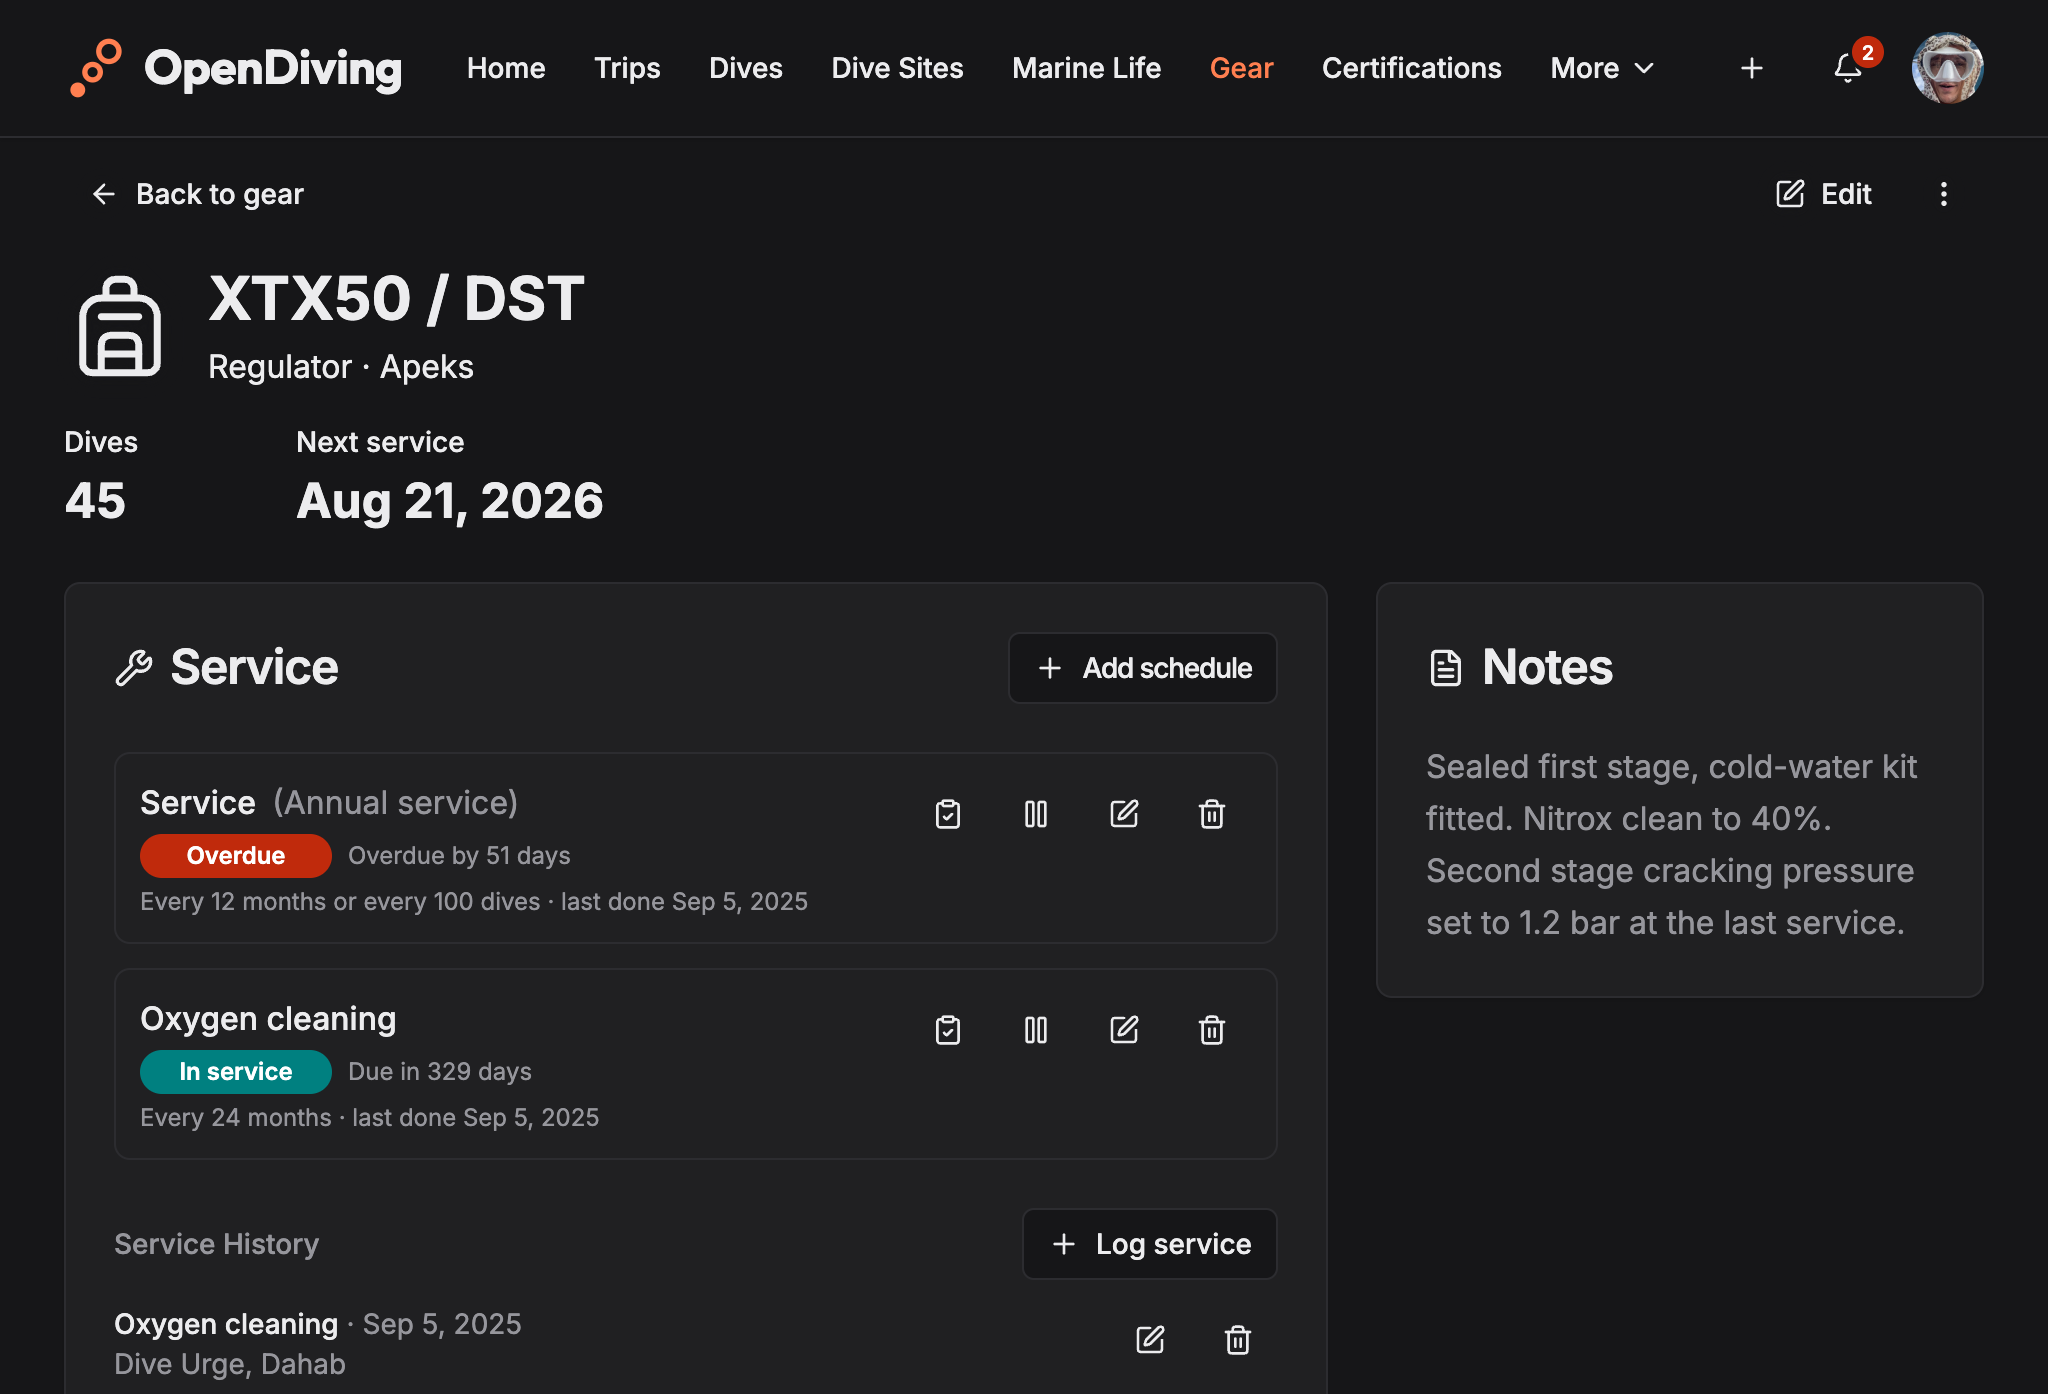
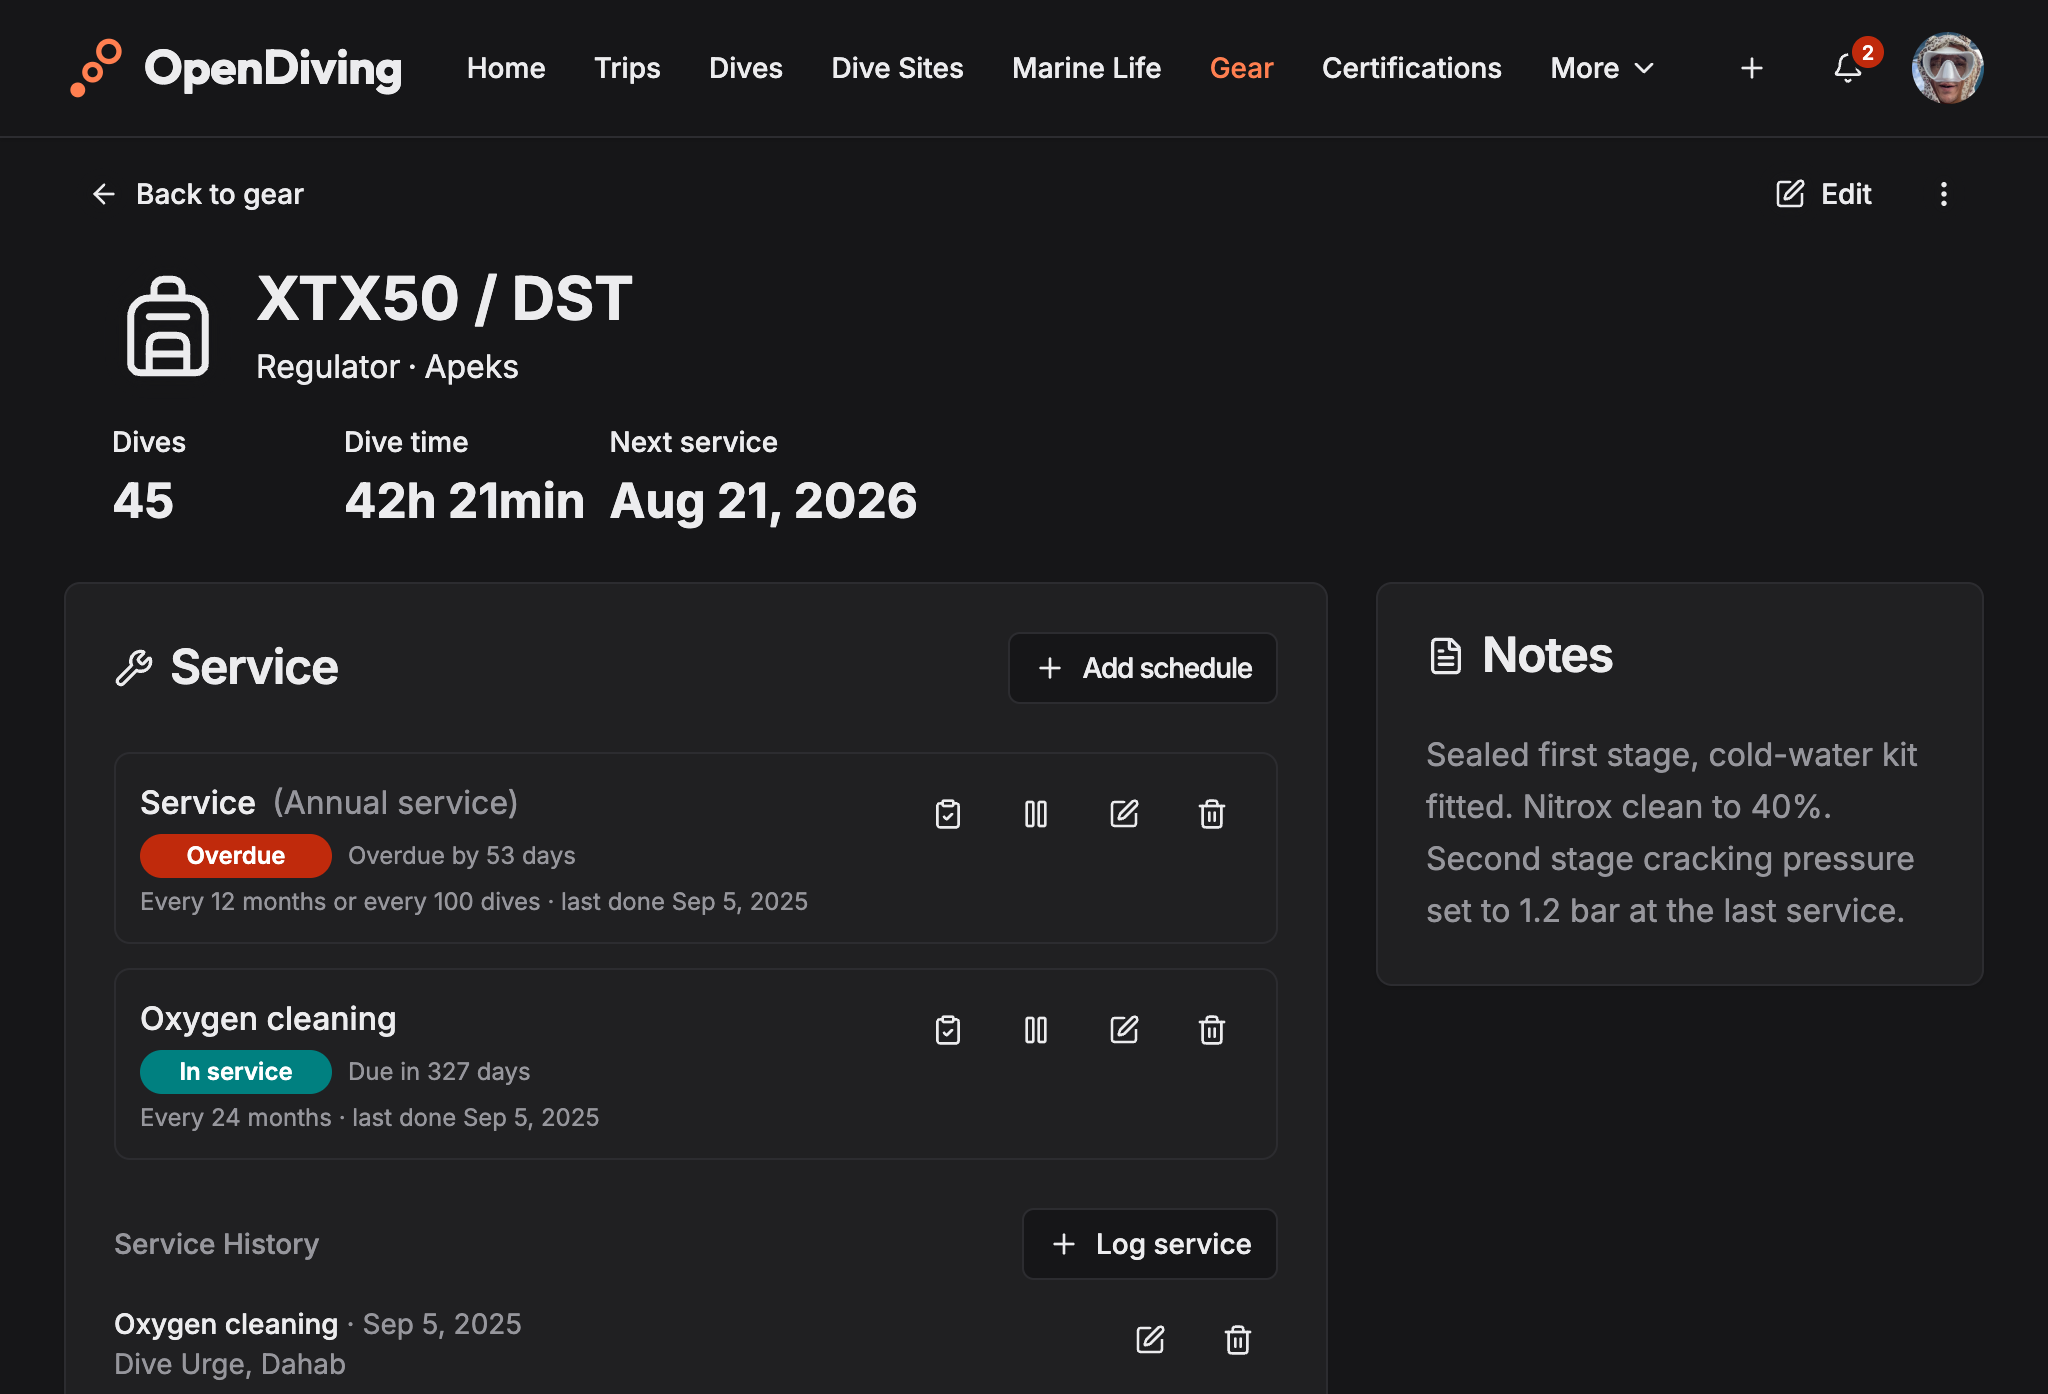
docs: cylinders carry their facts, tanks link them, and service rules run on hours of diving

diff --git a/README.md b/README.md
@@ -98,8 +98,10 @@ what you need, what the six values are, and what each container does.
   there — how many, the last and the deepest, the species you saw and your average rating — beside
   every dive logged at it, and a dive logged there starts from its water, altitude and entry. The
   list sorts by name, by dives or by the last dive, and filters by a tag.
-- **Gear tracking** — equipment with per-item dive counts, groupable into sets you attach to a dive
-  in one click, plus service schedules with due-soon reminders on the dashboard and by email.
+- **Gear tracking** — equipment with per-item dive counts and dive time, groupable into sets you
+  attach to a dive in one click; a cylinder records its volume, working pressure and material once,
+  and a dive's tank links it. Plus service schedules by months, dives or hours of diving, with
+  due-soon reminders on the dashboard and by email.
 - **Certifications** — photos of your c-cards on hand at the dive shop, without digging out the
   plastic, and an email when a card or one of your insurance policies comes within 90 days of
   expiring, and again when it does.
